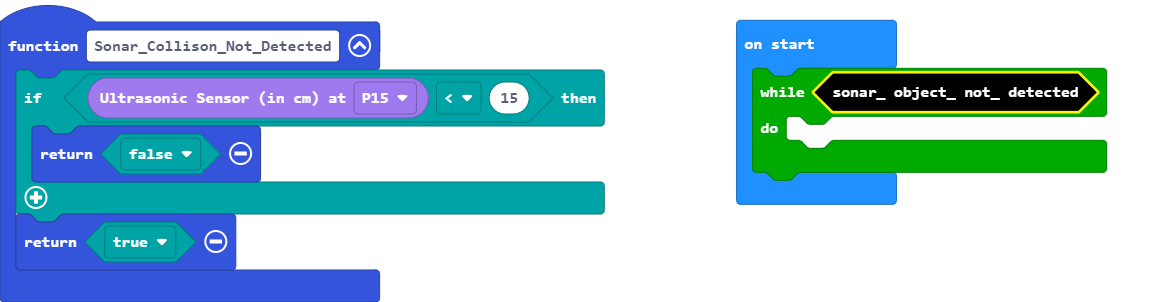
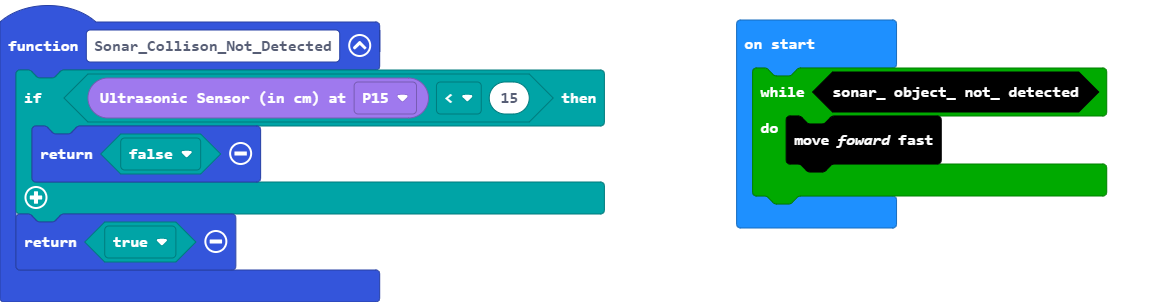
Update main.blocks, main.ts, custom.ts

diff --git a/custom.ts b/custom.ts
@@ -142,6 +142,19 @@ namespace MTS_RVR {
     return true
     }
 
+     /**
+     * The Sonar will return a true value once it detects that the RVR should slow down once it detects a collision ahead. 
+     */
+    //% block
+    //% group="MTS_Sonar"
+    //% blockGap=8
+    export function Sonar_Collison_Detected (): boolean {
+    if (grove.measureInCentimeters(DigitalPin.P15) < 15) {
+        return true
+    }
+    return false
+    }
+
     /**
      * The Sonar will return a true value once it detects that the RVR should slow once it detects an object. 
      */
@@ -153,6 +166,19 @@ namespace MTS_RVR {
         return false
     }
     return true
+    }
+
+    /**
+     * The Sonar will return a true value once it detects that the RVR should slow once it detects an object. 
+     */
+    //% block
+    //% group="MTS_Sonar"
+    //% blockGap=8
+    export function Sonar_Object_Detected (): boolean {
+    if (grove.measureInCentimeters(DigitalPin.P15) < 25) {
+        return true
+    }
+    return false
     }
 
     /**

diff --git a/main.ts b/main.ts
@@ -5,5 +5,5 @@ function Sonar_Collison_Not_Detected () {
     return true
 }
 while (MTS_RVR.Sonar_Object_Not_Detected()) {
-	
+    MTS_RVR.Move_Foward_Fast()
 }
